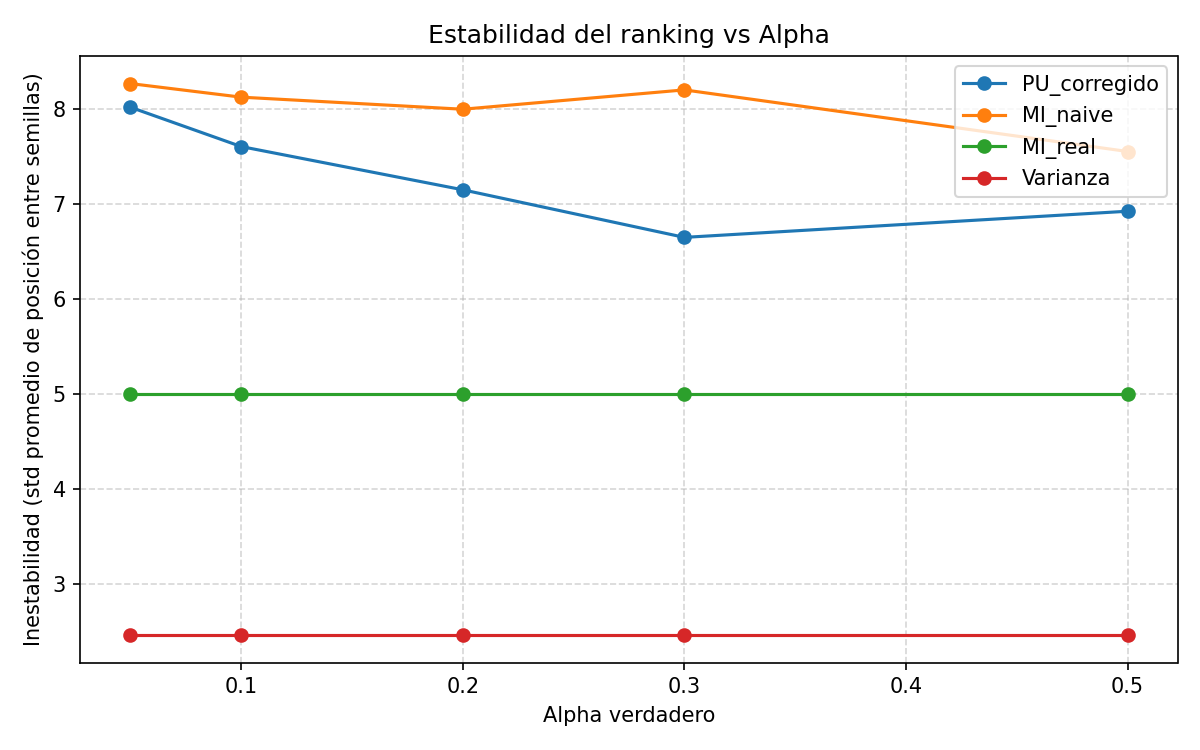
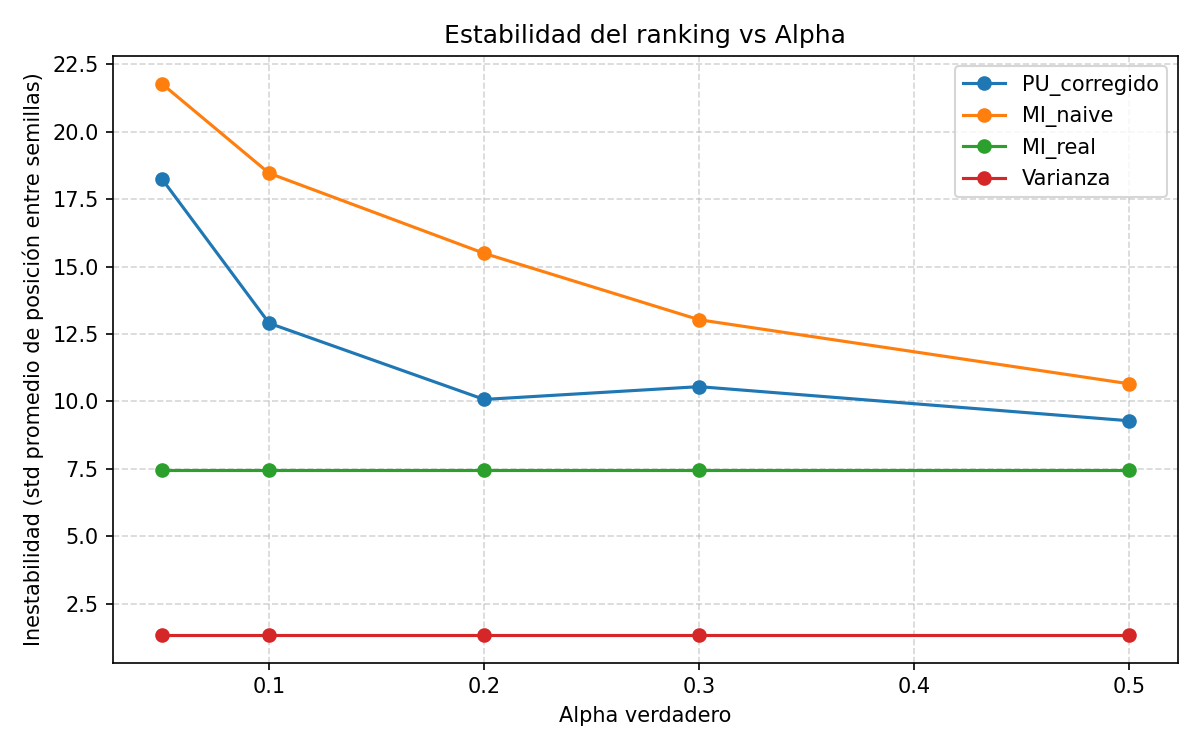
pipeline gas + ruido

diff --git a/main.py b/main.py
@@ -5,9 +5,11 @@ matplotlib.use('Agg')  # backend sin ventana
 import matplotlib.pyplot as plt
 import mlflow
 from mlflow.tracking import MlflowClient
-from sklearn.datasets import fetch_openml
-from sklearn.preprocessing import LabelEncoder
-
+import io
+import os
+import urllib.request
+import zipfile
+from sklearn.datasets import load_svmlight_files
 from sklearn.model_selection import train_test_split
 
 from src.data_utiles import generar_etiquetas_pu, añadir_ruido_gaussiano
@@ -33,14 +35,32 @@ def _ranking_instability(rankings_list):
 
 def main():
     """Ejecuta experimento según el modo configurado (single o sweep)."""
-    ionosphere = fetch_openml(name='ionosphere', version=1, as_frame=False, parser='auto')
-    X = ionosphere.data.astype(float)
-    le = LabelEncoder()
-    y = le.fit_transform(ionosphere.target)  # b=0, g=1 (alfabético)
-    # Reordenar para que 'good' (g, señal válida, "positivo") sea y=1
-    if le.classes_[0] == 'g':
-        y = 1 - y
-    feature_names = np.array(ionosphere.feature_names)
+    # Gas Sensor Array Drift Dataset (UCI)
+    # 13 910 muestras, 128 features (16 sensores × 8 estadísticos), 6 gases
+    # Positivo: clase 1 (Etanol); negativo: el resto
+    _cache = os.path.join('data', 'gas_sensor_drift')
+    os.makedirs(_cache, exist_ok=True)
+    if not os.path.exists(os.path.join(_cache, 'batch1.dat')):
+        print('Descargando Gas Sensor Array Drift Dataset...', flush=True)
+        req = urllib.request.Request(
+            'https://archive.ics.uci.edu/ml/machine-learning-databases/00224/Dataset.zip',
+            headers={'User-Agent': 'Mozilla/5.0'}
+        )
+        with urllib.request.urlopen(req, timeout=120) as r:
+            raw = r.read()
+        with zipfile.ZipFile(io.BytesIO(raw)) as zf:
+            for m in zf.namelist():
+                if m.endswith('.dat'):
+                    dest = os.path.join(_cache, os.path.basename(m))
+                    with zf.open(m) as src, open(dest, 'wb') as dst:
+                        dst.write(src.read())
+    parts = load_svmlight_files(
+        [os.path.join(_cache, f'batch{i}.dat') for i in range(1, 11)], n_features=128
+    )
+    X = np.vstack([parts[i].toarray() for i in range(0, len(parts), 2)])
+    y_raw = np.concatenate([parts[i] for i in range(1, len(parts), 2)]).astype(int)
+    y = (y_raw == 1).astype(int)  # Etanol (clase 1) = positivo; resto = negativo
+    feature_names = np.array([f'sensor{(i // 8) + 1}_feat{(i % 8) + 1}' for i in range(128)])
 
     # En modo single se itera una sola vez; en sweep se recorre la rejilla completa
     alphas = SWEEP_ALPHAS if RUN_MODE == 'sweep' else [ALPHA_TRUE]
@@ -61,7 +81,8 @@ def main():
         n_negatives = int((y == 0).sum())
         class_balance = round(n_positives / n_samples, 4) # proporción de positivos (que tan minoritaria es la clase positiva)
 
-        mlflow.log_param("dataset",            "ionosphere")
+        mlflow.log_param("dataset",            "gas_sensor_drift")
+        mlflow.log_param("positive_class",        "Ethanol (class 1)")
         mlflow.log_param("n_samples",          n_samples)
         mlflow.log_param("n_features",         n_features)
         mlflow.log_param("n_positives",        n_positives)

diff --git a/src/config.py b/src/config.py
@@ -13,5 +13,5 @@ NOISE_LEVEL = 0.5
 
 # Parámetros generales
 TOP_K = 10
-EXPERIMENT_NAME = "ionosphere"
+EXPERIMENT_NAME = "gas_sensor_drift"
 RUN_NAME = "v1.0.0"
